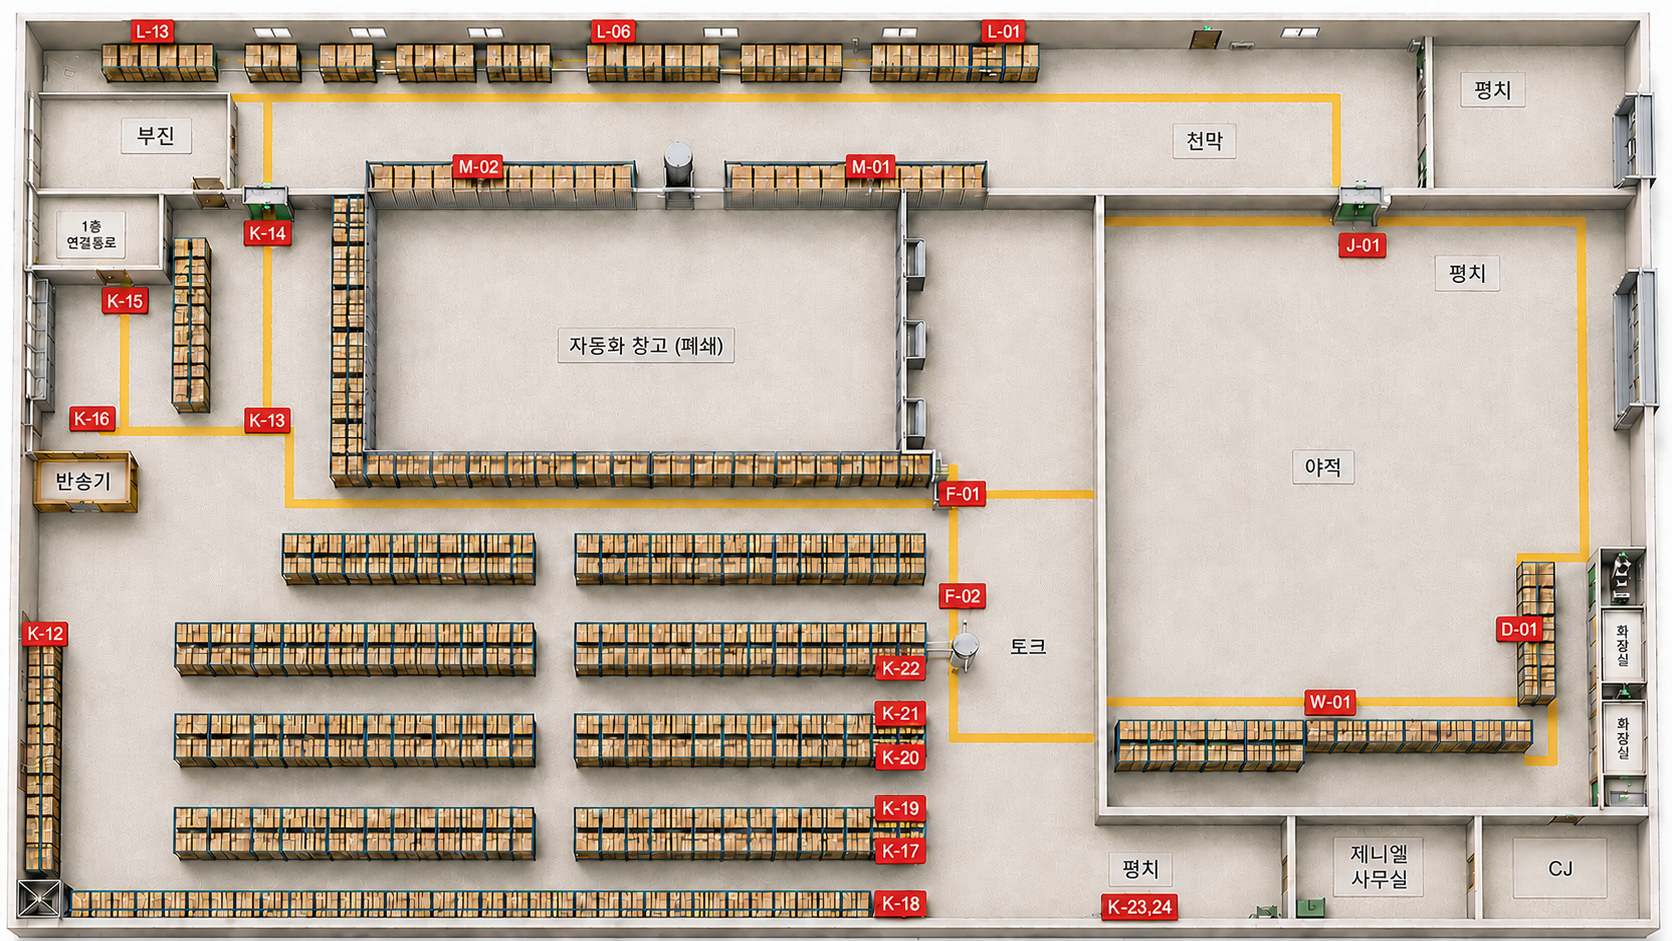
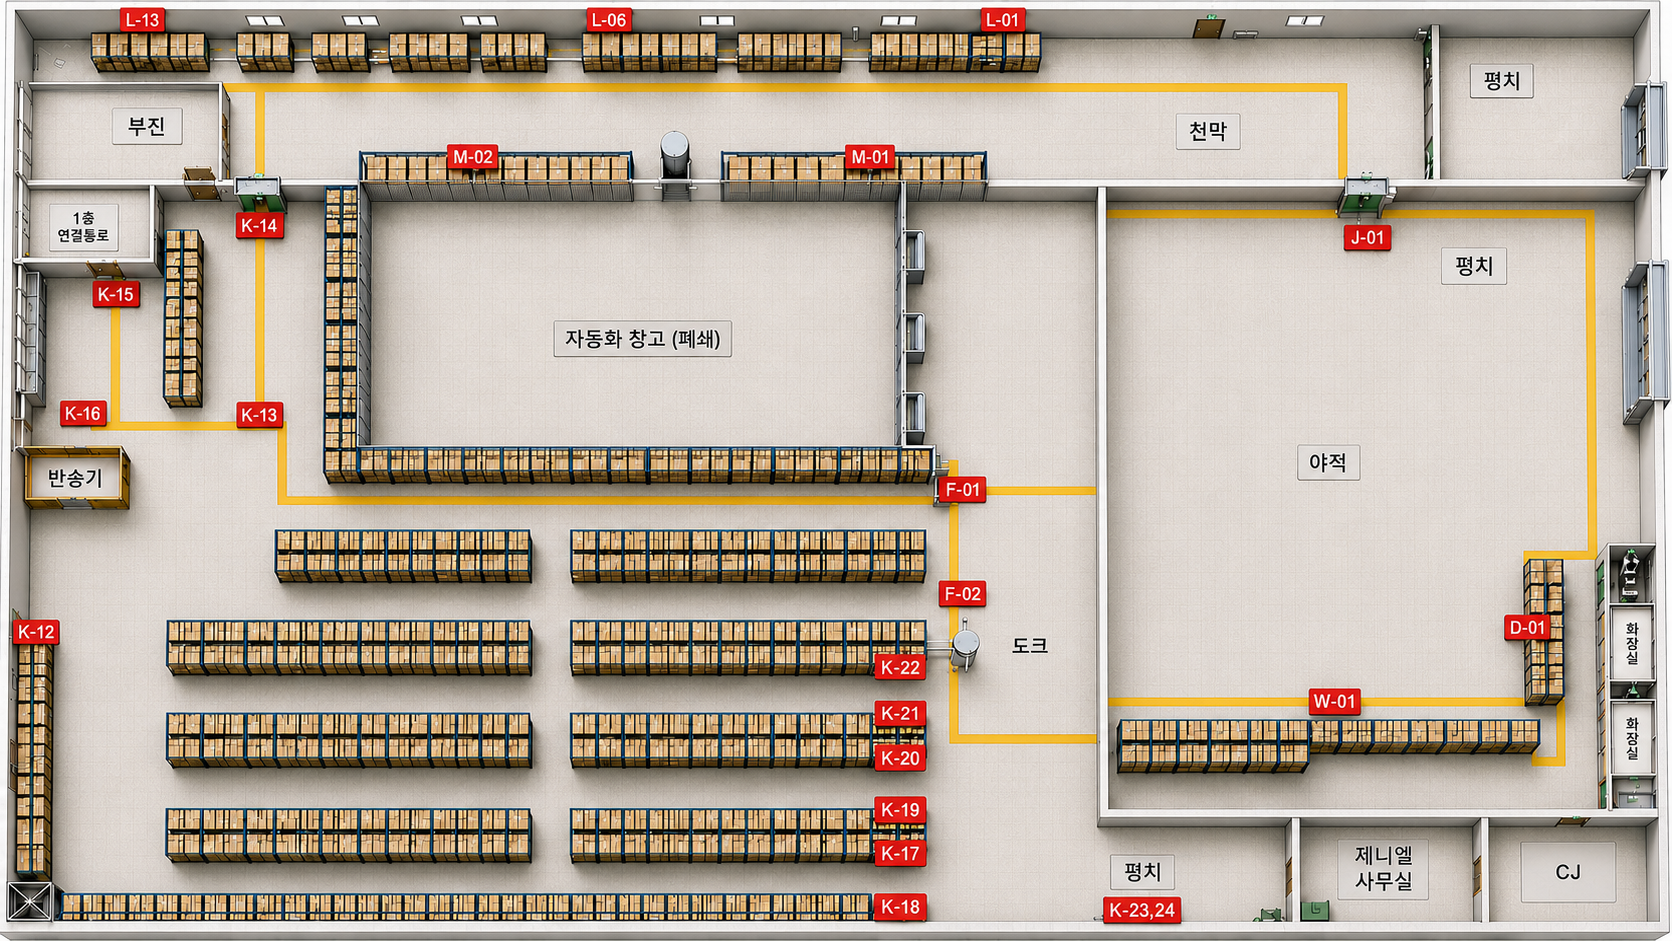
Add files via upload

diff --git a/app.py b/app.py
@@ -52,22 +52,22 @@ html = r'''<!doctype html>
 <html lang="ko"><head><meta charset="utf-8"><meta name="viewport" content="width=device-width,initial-scale=1">
 <style>
 :root{--green:#087f5b;--mint:#dff7ed;--line:#d8e2df;--ink:#18312b;--muted:#6a7d78;}
-*{box-sizing:border-box} body{margin:0;background:#f4f7f6;color:var(--ink);font-family:Pretendard,"Noto Sans KR",Arial,sans-serif;user-select:none}
-.app{display:grid;grid-template-columns:250px minmax(720px,1fr);gap:14px;padding:12px;min-height:900px}
+*{box-sizing:border-box} html,body{width:100%;height:100%;margin:0;overflow:hidden} body{background:#f4f7f6;color:var(--ink);font-family:Pretendard,"Noto Sans KR",Arial,sans-serif;user-select:none}
+.app{display:grid;grid-template-columns:clamp(210px,15vw,260px) minmax(0,1fr);gap:10px;padding:8px;width:100vw;height:100vh;overflow:hidden}
 .panel,.stage-wrap{background:#fff;border:1px solid var(--line);border-radius:16px;box-shadow:0 8px 24px #193a3210}
-.panel{padding:15px;display:flex;flex-direction:column;gap:12px}.title{font-size:20px;font-weight:900}.sub{font-size:12px;color:var(--muted)}
+.panel{padding:11px;display:flex;flex-direction:column;gap:8px;min-height:0;overflow:hidden}.title{font-size:clamp(16px,1.2vw,20px);font-weight:900}.sub{font-size:11px;color:var(--muted)}
 .date{width:100%;padding:9px;border:1px solid var(--line);border-radius:9px}.stats{display:grid;grid-template-columns:1fr 1fr;gap:7px}
-.stat{padding:9px;border-radius:10px;background:#f2f8f6}.stat b{display:block;font-size:18px;color:var(--green)}
-.dropbox{min-height:70px;border:2px dashed #b9cbc5;border-radius:11px;padding:8px;background:#fafcfb}.dropbox.hot{border-color:var(--green);background:var(--mint)}
+.stat{padding:6px 8px;border-radius:10px;background:#f2f8f6;font-size:12px}.stat b{display:inline;margin-left:5px;font-size:16px;color:var(--green)}
+.dropbox{min-height:52px;border:2px dashed #b9cbc5;border-radius:11px;padding:6px;background:#fafcfb}.dropbox.hot{border-color:var(--green);background:var(--mint)}
 .dropbox-title{font-weight:800;font-size:13px;margin-bottom:6px}.person-list{display:flex;flex-wrap:wrap;gap:6px;align-content:flex-start}
-.person{position:relative;padding:6px 10px;border-radius:8px;background:#fff;border:2px solid #2383e2;color:#123d66;font-size:13px;font-weight:800;cursor:grab;box-shadow:0 2px 7px #0002;white-space:nowrap;touch-action:none;z-index:15}
+.person{position:relative;display:flex;align-items:center;gap:3px;padding:4px 5px 4px 8px;border-radius:8px;background:#fff;border:2px solid #2383e2;color:#123d66;font-size:12px;font-weight:800;cursor:grab;box-shadow:0 2px 7px #0002;white-space:nowrap;touch-action:none;z-index:15}.person .name{min-width:22px;outline:none}.person .name[contenteditable="true"]{background:#fff4bf;color:#111;border-radius:3px;padding:1px 3px;cursor:text}.edit-name{border:0;background:#eaf3fb;color:#216aa8;border-radius:4px;padding:1px 4px;font-size:10px;cursor:pointer}
 .person.office{border-color:#12a150;color:#0b6335}.person.off{border-color:#89938f;color:#505956;background:#edf0ef}.person.dragging{cursor:grabbing;opacity:.92;z-index:999;transform:scale(1.04)}
 .addrow{display:flex;gap:6px}.addrow input{min-width:0;flex:1;padding:8px;border:1px solid var(--line);border-radius:8px}.btn{border:0;border-radius:8px;padding:8px 10px;font-weight:800;cursor:pointer}.primary{background:var(--green);color:white}.secondary{background:#eaf1ef;color:#28443d}.danger{background:#fff0f0;color:#b42318}
-.toolbar{display:grid;grid-template-columns:1fr 1fr;gap:6px}.stage-wrap{padding:10px;overflow:auto}.stage-head{display:flex;justify-content:space-between;align-items:center;padding:2px 5px 9px}.status{font-size:13px;color:var(--muted)}
-.stage{position:relative;width:100%;min-width:720px;aspect-ratio:1436/1132;background:#ddd;border-radius:10px;overflow:hidden;border:1px solid #b9c3c0}.stage>img{position:absolute;width:100%;height:100%;object-fit:fill;pointer-events:none}
+.toolbar{display:grid;grid-template-columns:1fr 1fr;gap:5px}.stage-wrap{padding:8px;overflow:hidden;display:flex;flex-direction:column;min-width:0;min-height:0}.stage-head{flex:0 0 auto;display:flex;justify-content:space-between;align-items:center;padding:0 4px 6px}.status{font-size:12px;color:var(--muted)}
+.stage{position:relative;flex:0 1 auto;width:100%;max-width:calc((100vh - 48px) * 1.7779);max-height:calc(100vh - 48px);aspect-ratio:1672/941;margin:auto;background:#ddd;border-radius:8px;overflow:hidden;border:1px solid #b9c3c0}.stage>img{position:absolute;inset:0;width:100%;height:100%;object-fit:contain;pointer-events:none}
 .zone{position:absolute;border:1.5px dashed transparent;border-radius:5px;pointer-events:none}.show-zones .zone{border-color:#00a56a88;background:#00a56a10}.zone-label{display:none;position:absolute;top:2px;left:3px;font-size:9px;background:#087f5bcc;color:#fff;padding:2px 4px;border-radius:4px}.show-zones .zone-label{display:block}
 .stage .person{position:absolute;transform:translate(-50%,-50%)}.toast{position:fixed;right:20px;bottom:20px;background:#173f35;color:#fff;padding:10px 14px;border-radius:9px;opacity:0;transition:.2s;z-index:2000}.toast.on{opacity:1}
-@media(max-width:950px){.app{grid-template-columns:1fr}.panel{order:2}.stage-wrap{order:1}.stage{min-width:680px}}
+@media(max-width:900px){.app{grid-template-columns:190px minmax(0,1fr);gap:6px;padding:5px}.panel{padding:7px;gap:5px}.sub{display:none}.dropbox{min-height:42px}.person{font-size:10px;padding:3px 4px}.btn{padding:6px;font-size:11px}.stage{max-width:calc((100vh - 38px) * 1.7779);max-height:calc(100vh - 38px)}}
 </style></head><body>
 <div class="app">
  <aside class="panel">
@@ -95,10 +95,10 @@ function save(){localStorage.setItem(key(),JSON.stringify({date:dateEl.value,peo
 function setStatus(t){document.getElementById('status').textContent=t} function changed(){dirty=true;setStatus('저장하지 않은 변경사항')}
 function toast(t){let e=document.getElementById('toast');e.textContent=t;e.classList.add('on');setTimeout(()=>e.classList.remove('on'),1500)}
 ZONES.forEach(z=>{let e=document.createElement('div');e.className='zone';Object.assign(e.style,{left:z.x+'%',top:z.y+'%',width:z.w+'%',height:z.h+'%'});e.innerHTML='<span class="zone-label">'+z.id+'</span>';stage.appendChild(e)})
-function personEl(p){let e=document.createElement('div');e.className='person '+(p.place==='office'?'office':p.place==='off'?'off':'');e.textContent=p.name;e.dataset.id=p.id;e.title=p.zone||p.place;e.addEventListener('pointerdown',startDrag);e.addEventListener('dblclick',()=>{if(confirm(p.name+' 인원을 삭제할까요?')){people=people.filter(x=>x.id!==p.id);changed();render()}});return e}
+function personEl(p){let e=document.createElement('div');e.className='person '+(p.place==='office'?'office':p.place==='off'?'off':'');e.dataset.id=p.id;e.title=(p.zone||p.place)+' · 우클릭 삭제';let n=document.createElement('span');n.className='name';n.textContent=p.name;let b=document.createElement('button');b.className='edit-name';b.textContent='수정';b.title='이름 수정';b.addEventListener('pointerdown',ev=>ev.stopPropagation());b.addEventListener('click',ev=>{ev.stopPropagation();n.contentEditable='true';n.focus();document.getSelection().selectAllChildren(n)});n.addEventListener('pointerdown',ev=>{if(n.contentEditable==='true')ev.stopPropagation()});n.addEventListener('input',()=>{let value=n.textContent.trim();if(value){p.name=value;changed()}});n.addEventListener('keydown',ev=>{if(ev.key==='Enter'){ev.preventDefault();n.blur()}if(ev.key==='Escape'){n.textContent=p.name;n.blur()}});n.addEventListener('blur',()=>{if(!n.textContent.trim())n.textContent=p.name;n.contentEditable='false';localStorage.setItem(masterKey(),JSON.stringify(people.map(x=>x.name)));render()});e.append(n,b);e.addEventListener('pointerdown',startDrag);e.addEventListener('contextmenu',ev=>{ev.preventDefault();if(confirm(p.name+' 인원을 삭제할까요?')){people=people.filter(x=>x.id!==p.id);changed();render()}});return e}
 function render(){document.querySelectorAll('.person').forEach(e=>e.remove()); for(const p of people){let e=personEl(p);if(p.place==='stage'){e.style.left=p.x+'%';e.style.top=p.y+'%';stage.appendChild(e)}else document.querySelector('#'+p.place+' .person-list').appendChild(e)}
  let counts={pool:0,office:0,off:0,stage:0};people.forEach(p=>counts[p.place]++);document.getElementById('fieldN').textContent=counts.stage;document.getElementById('officeN').textContent=counts.office;document.getElementById('offN').textContent=counts.off;document.getElementById('poolN').textContent=counts.pool}
-function startDrag(ev){ev.preventDefault();let p=people.find(x=>x.id===ev.currentTarget.dataset.id);let ghost=ev.currentTarget;let r=ghost.getBoundingClientRect();drag={p,ghost,dx:ev.clientX-r.left-r.width/2,dy:ev.clientY-r.top-r.height/2};ghost.classList.add('dragging');ghost.style.position='fixed';ghost.style.left=ev.clientX-drag.dx+'px';ghost.style.top=ev.clientY-drag.dy+'px';ghost.style.transform='translate(-50%,-50%)';document.body.appendChild(ghost);ghost.setPointerCapture(ev.pointerId);ghost.addEventListener('pointermove',moveDrag);ghost.addEventListener('pointerup',endDrag,{once:true})}
+function startDrag(ev){if(ev.target.closest('.edit-name')||ev.target.contentEditable==='true')return;ev.preventDefault();let p=people.find(x=>x.id===ev.currentTarget.dataset.id);let ghost=ev.currentTarget;let r=ghost.getBoundingClientRect();drag={p,ghost,dx:ev.clientX-r.left-r.width/2,dy:ev.clientY-r.top-r.height/2};ghost.classList.add('dragging');ghost.style.position='fixed';ghost.style.left=ev.clientX-drag.dx+'px';ghost.style.top=ev.clientY-drag.dy+'px';ghost.style.transform='translate(-50%,-50%)';document.body.appendChild(ghost);ghost.setPointerCapture(ev.pointerId);ghost.addEventListener('pointermove',moveDrag);ghost.addEventListener('pointerup',endDrag,{once:true})}
 function moveDrag(ev){if(!drag)return;drag.ghost.style.left=ev.clientX-drag.dx+'px';drag.ghost.style.top=ev.clientY-drag.dy+'px';['pool','office','off'].forEach(id=>{let e=document.getElementById(id),r=e.getBoundingClientRect();e.classList.toggle('hot',ev.clientX>=r.left&&ev.clientX<=r.right&&ev.clientY>=r.top&&ev.clientY<=r.bottom)})}
 function endDrag(ev){if(!drag)return;let p=drag.p,sr=stage.getBoundingClientRect(),placed=false;if(ev.clientX>=sr.left&&ev.clientX<=sr.right&&ev.clientY>=sr.top&&ev.clientY<=sr.bottom){p.x=Math.max(1,Math.min(99,(ev.clientX-sr.left)/sr.width*100));p.y=Math.max(1,Math.min(99,(ev.clientY-sr.top)/sr.height*100));p.place='stage';let z=ZONES.find(z=>p.x>=z.x&&p.x<=z.x+z.w&&p.y>=z.y&&p.y<=z.y+z.h);p.zone=z?.id||'기타';placed=true}
  for(const id of ['pool','office','off']){let e=document.getElementById(id),r=e.getBoundingClientRect();e.classList.remove('hot');if(ev.clientX>=r.left&&ev.clientX<=r.right&&ev.clientY>=r.top&&ev.clientY<=r.bottom){p.place=id;p.zone=id==='office'?'사무실':id==='off'?'휴무':'미배치';placed=true}}
@@ -119,12 +119,13 @@ html = html.replace("{{PEOPLE}}", json.dumps(default_people, ensure_ascii=False)
 st.markdown(
     """
     <style>
-      .block-container {max-width: 1680px; padding: .6rem .8rem 1rem;}
-      header[data-testid="stHeader"] {display:none;}
-      iframe {border-radius: 14px;}
+      html, body, [data-testid="stAppViewContainer"], [data-testid="stMain"], .main {height:100vh !important; overflow:hidden !important;}
+      .block-container {max-width:none !important; width:100vw !important; height:100vh !important; padding:0 !important; margin:0 !important;}
+      header[data-testid="stHeader"], [data-testid="stToolbar"], [data-testid="stDecoration"], footer {display:none !important;}
+      [data-testid="stElementContainer"], [data-testid="stCustomComponentV1"] {width:100% !important; height:100vh !important; margin:0 !important;}
+      iframe {width:100% !important; height:100vh !important; border:0 !important; display:block !important;}
     </style>
     """,
     unsafe_allow_html=True,
 )
-components.html(html, height=950, scrolling=True)
-
+components.html(html, height=1000, scrolling=False)

diff --git a/README.md b/README.md
@@ -20,6 +20,9 @@ streamlit run app.py
 - 구역 판정선 표시
 - JSON 백업 다운로드
 - PC 및 태블릿 화면 대응
+- 브라우저 전체화면 사용 및 페이지 스크롤 제거
+- 원본 현황판 비율 유지 자동 축소·확대
+- 명찰의 `수정` 버튼을 통한 실시간 이름 변경
 
 ## 저장 방식
 
@@ -28,4 +31,3 @@ streamlit run app.py
 ## GitHub 배포
 
 저장소 루트에 이 폴더의 파일을 넣고 Streamlit Community Cloud에서 `app.py`를 시작 파일로 선택합니다.
-
